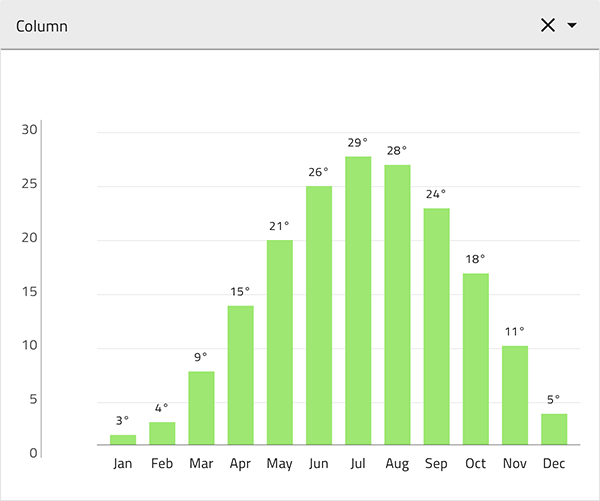
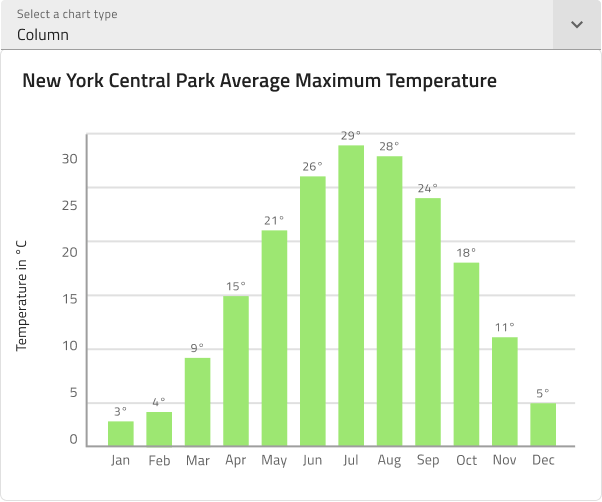
Added info for Figma and swapped outdated image

diff --git a/en/patterns/data-visualizations.md b/en/patterns/data-visualizations.md
@@ -1,7 +1,7 @@
 ---
 title: Data Visualizations - Design System Pattern
 _description: Data Visualizations Pattern Symbol provides visualization of data or information in various layouts and representations.
-_keywords: Design Systems, Design Systems UX, UI kit, Sketch, Ignite UI for Angular, Sketch to Angular, Angular, Angular Design System, Export code from Sketch, Design Kits for Angular, Sketch HTML, Sketch to HTML, Sketch UI kits
+_keywords: Design Systems, Design Systems UX, UI kit, Sketch, Ignite UI for Angular, Sketch to Angular, Angular, Angular Design System, Export code from Sketch, Design Kits for Angular, Sketch HTML, Sketch to HTML, Sketch UI kits, Figma, Figma to Angular, Export code from Figma, Figma HTML, Figma to HTML, Figma UI kits
 ---
 
 # Data Visualizations
@@ -10,12 +10,13 @@ Use the Data Visualizations Pattern to present information and data in various v
 
 <img class="responsive-img" src="../images/data_visualizations.png" srcset="../images/data_visualizations@2x.png 2x" />
 
-The Data Visualization Pattern comes with styling flexibility provided by the Chart component, Input and Text elements that constitute it.
+The Data Visualization Pattern comes with styling flexibility provided by the Chart and the Select component.
 
 ## Additional Resources
 
 Related topics:
 
+- [Select](../components/select.md)
 - [Column Chart](../components/column-chart.md)
 - [Line Chart](../components/line-chart.md)
 - [Spline Chart](../components/spline-chart.md)
